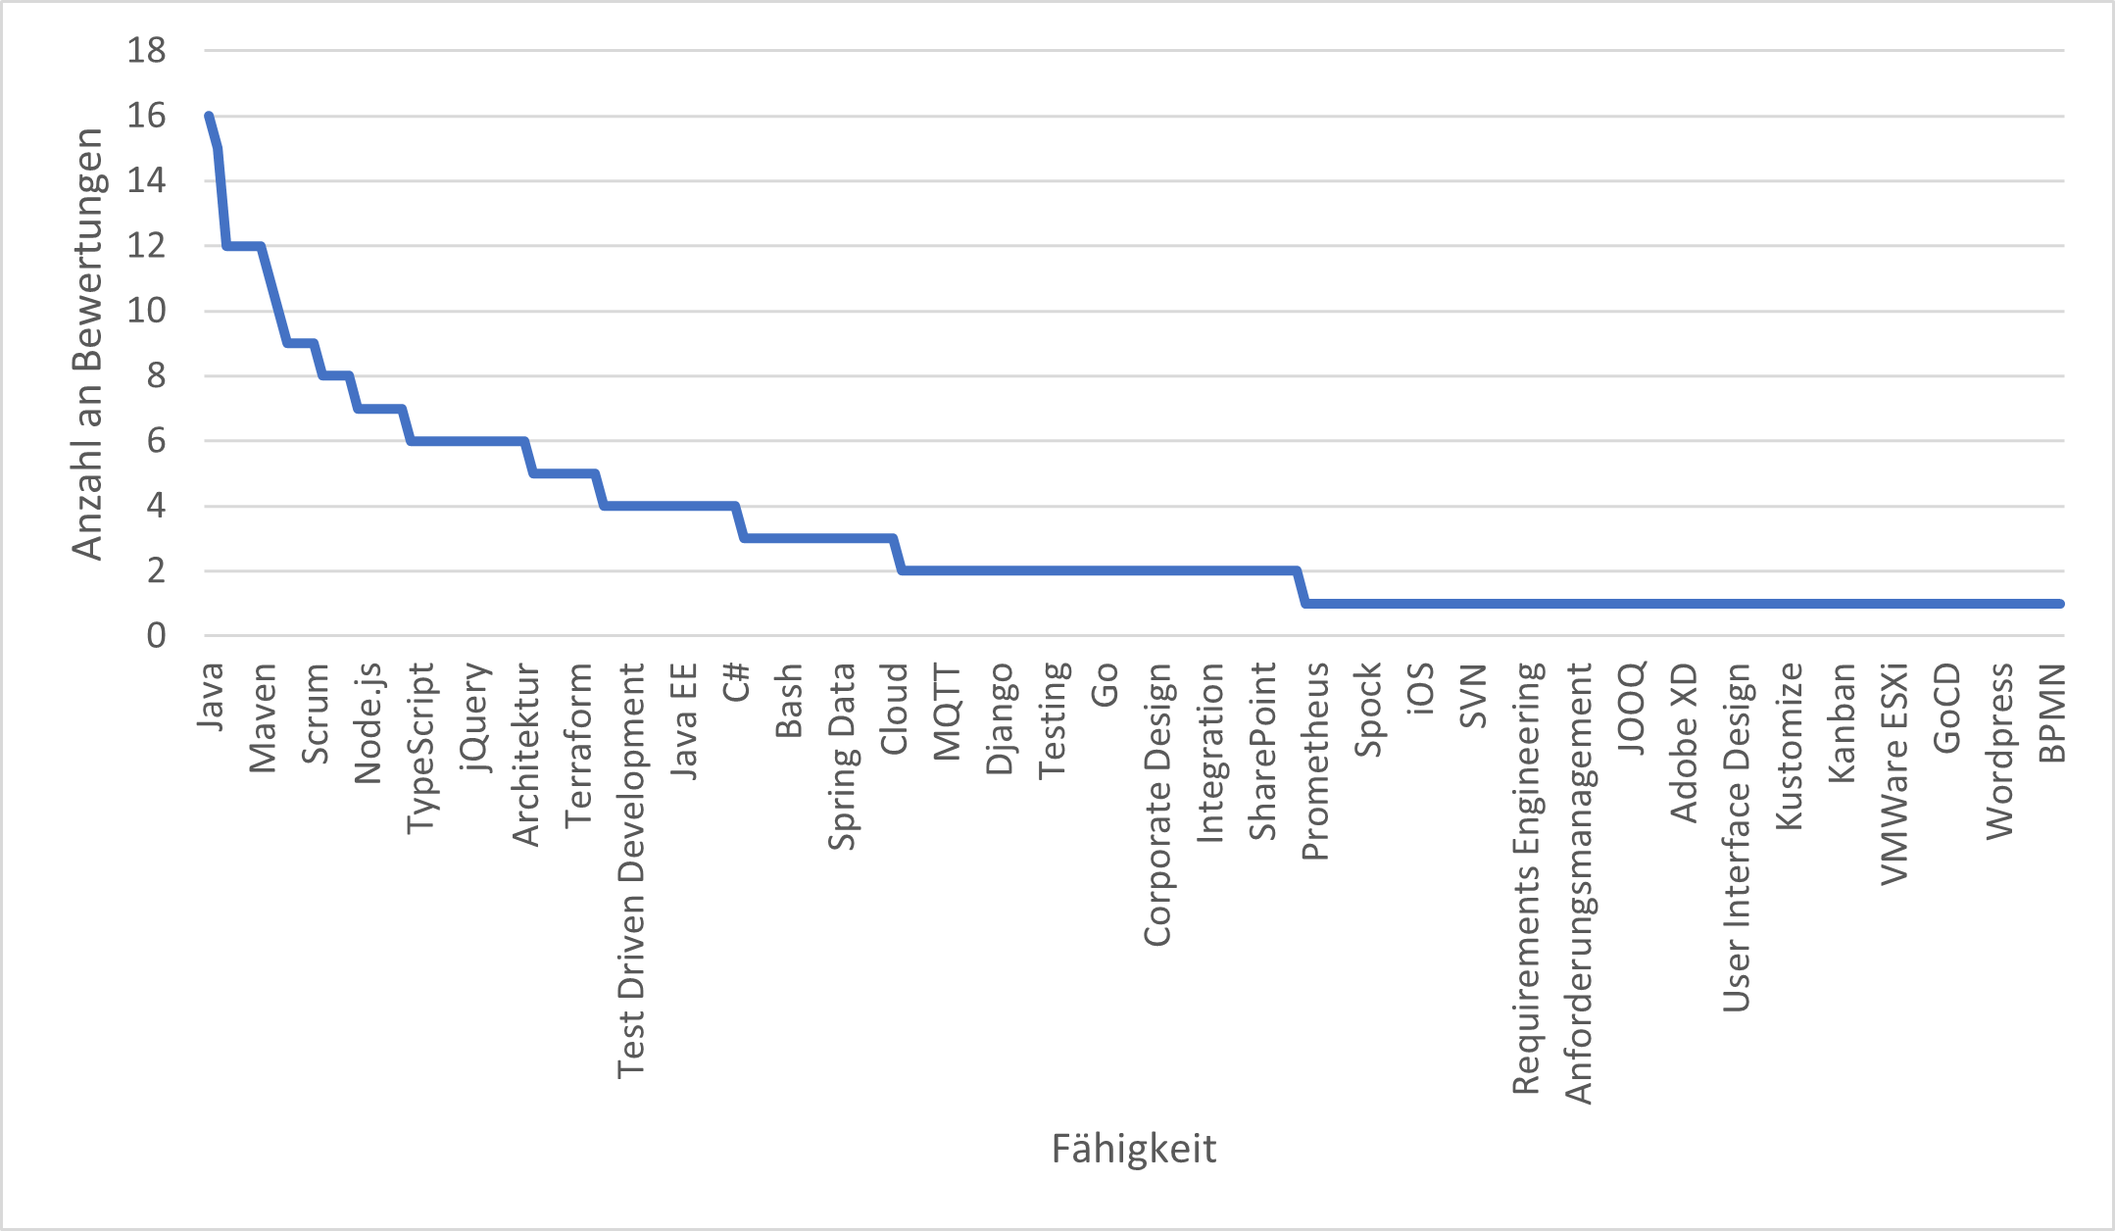
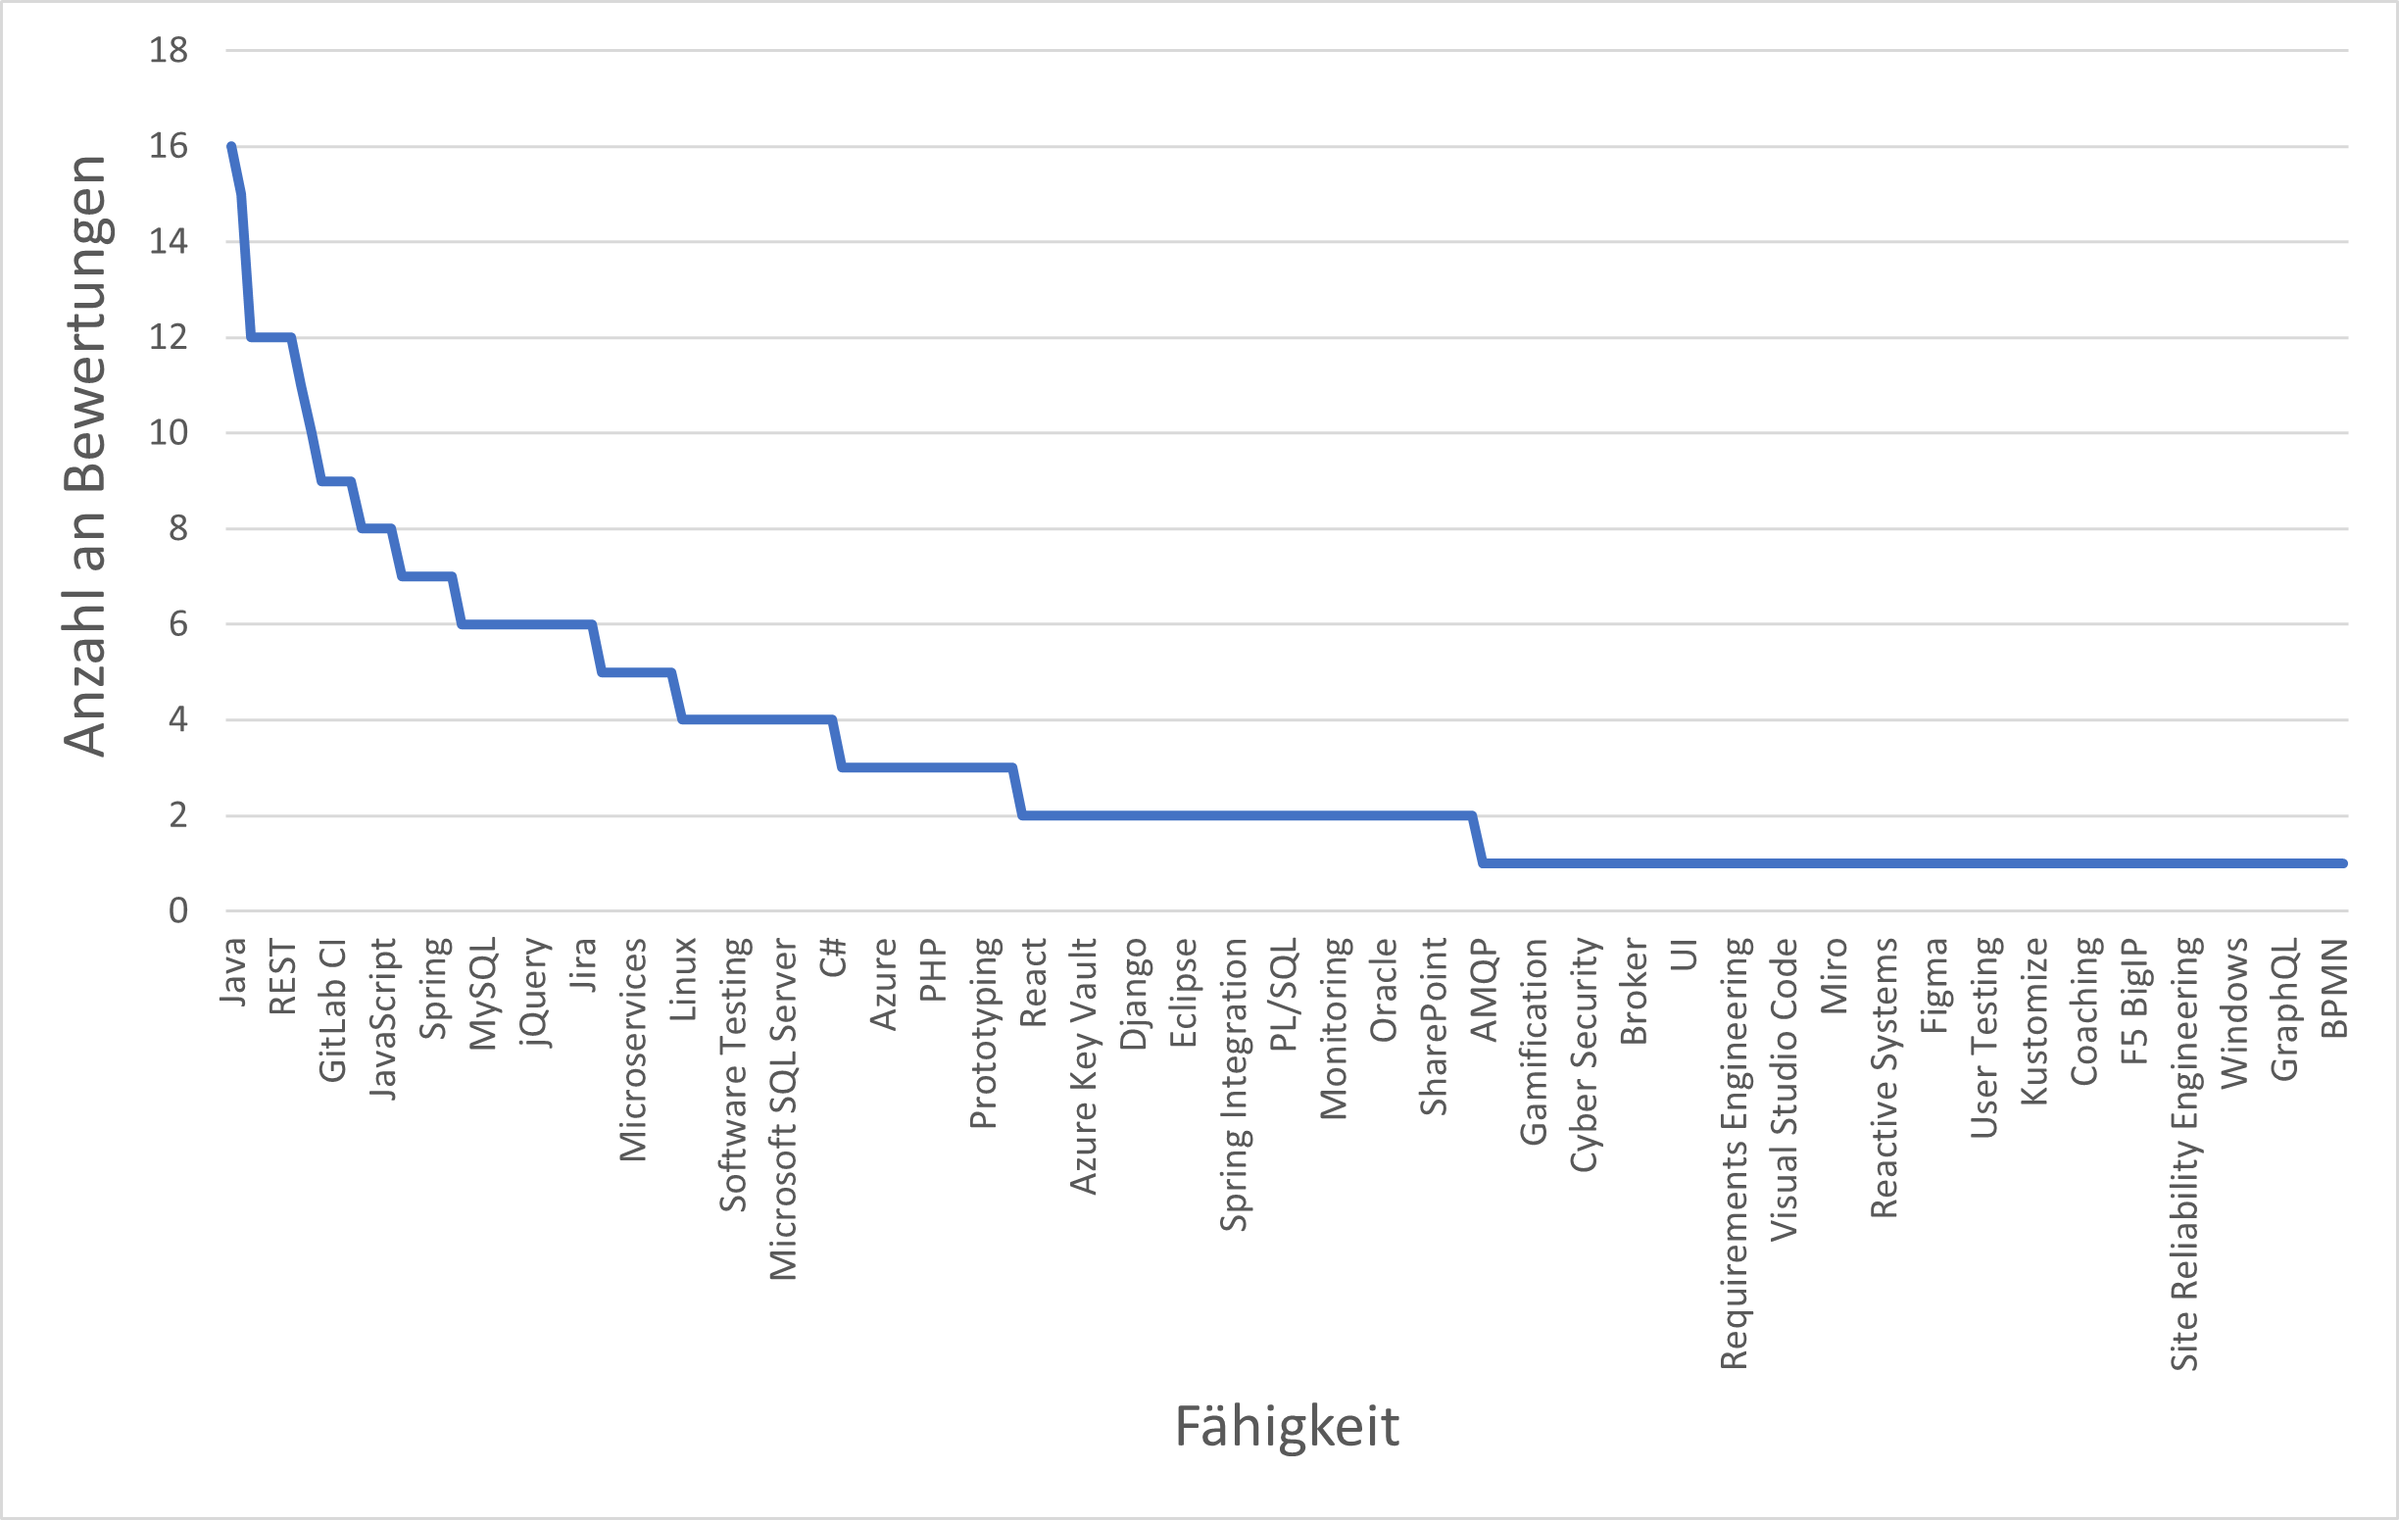
wip

diff --git a/chapters/ergebnisse.tex b/chapters/ergebnisse.tex
@@ -4,7 +4,9 @@
 
 \section{Fähigkeiten und Präferenzen der Mitarbeiter}
 \label{ch:ergebnisse:analyse}
-An der Umfrage unter den Projektmitarbeitern haben N=23 Personen im Fachbereich \acl{JES} der EXXETA AG teilgenommen. Es ist festzustellen, dass diese Angestellten insgesamt 643 Kompetenzbewertungen im Intranet des Unternehmens abgegeben haben. Das entspricht ca. 30 vergebenen Beurteilungen pro Person. Die Bewertungen verteilen sich auf insgesamt 212 der \anzFaehigkeiten unterschiedlichen im Intranet gespeicherten Fähigkeiten. Java ist mit 16 Beurteilungen die meist bewertete Kompetenz. Abbildung \ref{fig:diskussion:analyse:abb1} zeigt die bewerteten Fähigkeiten sortiert nach Anzahl an Beurteilungen. Dabei ist der der in Kapitel \ref{ch:empfehlungssysteme:cf:speicherbasiert} vorgestellte lange (Ratten-)Schwanz sehr gut erkennbar.
+An der Umfrage unter den Projektmitarbeitern haben N=23 Personen im Fachbereich \acl{JES} der EXXETA AG teilgenommen. Es ist festzustellen, dass diese Angestellten insgesamt 643 Kompetenzbewertungen im Intranet des Unternehmens abgegeben haben. Das entspricht ca. 28 vergebenen Beurteilungen pro Person. Die Bewertungen verteilen sich auf insgesamt 212 der \anzFaehigkeiten unterschiedlichen im Intranet gespeicherten Fähigkeiten. Java ist mit 16 Beurteilungen die meist bewertete Kompetenz.
+
+Abbildung \ref{fig:ergebnisse:analyse:abb1} zeigt die bewerteten Fähigkeiten sortiert nach Anzahl an Beurteilungen. Dabei ist der in Kapitel \ref{ch:empfehlungssysteme:cf:speicherbasiert} vorgestellte lange (Ratten-)Schwanz gut erkennbar. Dieser ist jedoch weniger stark ausgeprägt, als in der Referenzdarstellung aus Abbildung \ref{fig:empfehlungssysteme:cf:speicherbasiert:abb1}.
 
 \begin{figure}[h]
 	\centering
@@ -13,17 +15,30 @@ An der Umfrage unter den Projektmitarbeitern haben N=23 Personen im Fachbereich 
 	\label{fig:ergebnisse:analyse:abb1}
 \end{figure}
 
-In Abbildung \ref{fig:diskussion:analyse:abb1} ist bezüglich des langen (Ratten-)Schwanzes zu erkennen, dass neun bzw. etwa 4.25 Prozent aller Fähigkeiten über zehn oder mehr Bewertungen verfügen. Dagegen haben 151 bzw. etwa 71.23 Prozent aller Kompetenzen drei oder weniger Beurteilungen.
+In Abbildung \ref{fig:ergebnisse:analyse:abb1} ist bezüglich des langen (Ratten-)Schwanzes festzustellen, dass neun bzw. etwa 4.25 Prozent aller Fähigkeiten über zehn oder mehr Bewertungen verfügen. Dagegen haben 151 bzw. etwa 71.23 Prozent aller Kompetenzen drei oder weniger Beurteilungen.
 
-Darüber hinaus ist für vier bzw. etwa 17.39 Prozent der Mitarbeiter ein Kaltstart zu erwarten. Diese haben bislang im Intranet keine einzige Fähigkeit bewertet. Der Grund hierfür ist
+In den Daten ist darüber hinaus zu beobachten, dass vier bzw. etwa 17.39 Prozent der Mitarbeiter keine einzige Fähigkeit bewertet haben. Der Grund hierfür ist, dass diese Angestellten seit Einführung des Kompetenz-Bewertungssystems im Intranet durchgehend in einem Projekt tätig sind und daher noch nicht zur Pflege ihrer Fähigkeiten aufgefordert wurden.
 
+Bei der Umfrage zu den Präferenzen haben die Mitarbeiter insgesamt 1408 Bewertungen abgegeben, welche sich auf 370 einzelne Kompetenzen verteilen. Dies entspricht knapp über 61 abgegebenen Wünschen pro Mitarbeiter. Git ist mit 18 Beurteilungen die meist bewertete Fähigkeit. Wie in Abbildung \ref{fig:ergebnisse:analyse:abb2} zu erkennen, deutet sich auch hinsichtlich der Präferenzen der Angestellten ein langer (Ratten-)Schwanz an, wenn die Fähigkeiten nach Anzahl an Beurteilungen sortiert dargestellt werden.
+ 
+\begin{figure}[h]
+	\centering
+	\includegraphics[width=1\textwidth]{gfx/long-tail-praeferenzen.png}
+	\caption{Langer (Ratten-)Schwanz bei den präferierten Fähigkeiten der Mitarbeiter}
+	\label{fig:ergebnisse:analyse:abb2}
+\end{figure}
+
+Zu Abbildung \ref{fig:ergebnisse:analyse:abb2} ist festzustellen, dass 18 bzw. etwa 4.86 Prozent aller Fähigkeiten von zwölf oder mehr Mitarbeitern präferiert werden. Dem gegenüber stehen 268 bzw. etwa 72.43 Prozent aller Kompetenzen, welche vier oder weniger Angestellte als Präferenz angaben. Bei der Umfrage gab es keinen Mitarbeiter, welcher keine einzige Fähigkeit als Präferenz ausgewählte.
+
+Bei der Betrachtung auf Mitarbeiterebene ist festzustellen, dass ein durchschnittlicher Angestellter von seinen ca. 28 beherrschten Fähigkeiten etwa 14.5 bzw. ca. 52 Prozent gleichzeitig präferiert. Bei der gemeinsamen Untersuchung von beherrschten und gewünschten Fähigkeiten ist zu beobachten, dass 
+
+Bei der gemeinsamen Betrachtung von beherrschten und präferierten Fähigkeiten ist festzustellen, dass die Mitarbeiter 192 ihrer 212 beherrschten Kompetenzen, also über 90 Prozent, ebenfalls präferieren. Gleichzeitig bedeutet dies, dass die Angestellten 178 bzw. über 48 Prozent aller Kompetenzen noch nicht beherrschen, welche diese präferieren. Hierzu ist festzustellen, dass die Mitarbeiter häufig Fähigkeiten als Wunsch angeben, 
+
+- Wie viele Cloud, KI? --> Wie viele nur 1 Bewertung (Ausreißer)
 
 \newpage
-
-
-
-
-Kaltstart: 4 Nutzer (17,39 Prozent) haben gar keine Fähigkeiten angegeben / Es sind immer mind. 19 andere Personen auf einem Skill verbunden
+- Kein Coldstart bei Präferenzen
+- Es sind immer mind. 19 andere Personen auf einem Skill verbunden
 
 Projekt A: unilateral/bilateral\\
 Projekt B: bilateral/unilateral\\

diff --git a/chapters/diskussion.tex b/chapters/diskussion.tex
@@ -1,7 +1,8 @@
 \shorthandoff{"}
 \chapter{Diskussion}
 \label{ch:diskussion}
-
+- Wesentlich mehr Bewertungen bei Präferenzen --> Lag an Liste? --> Liste: Kein Coldstart
+- Kein grundsätzlicher Cold Start zu erwarten
 
 
 \shorthandon{"}
